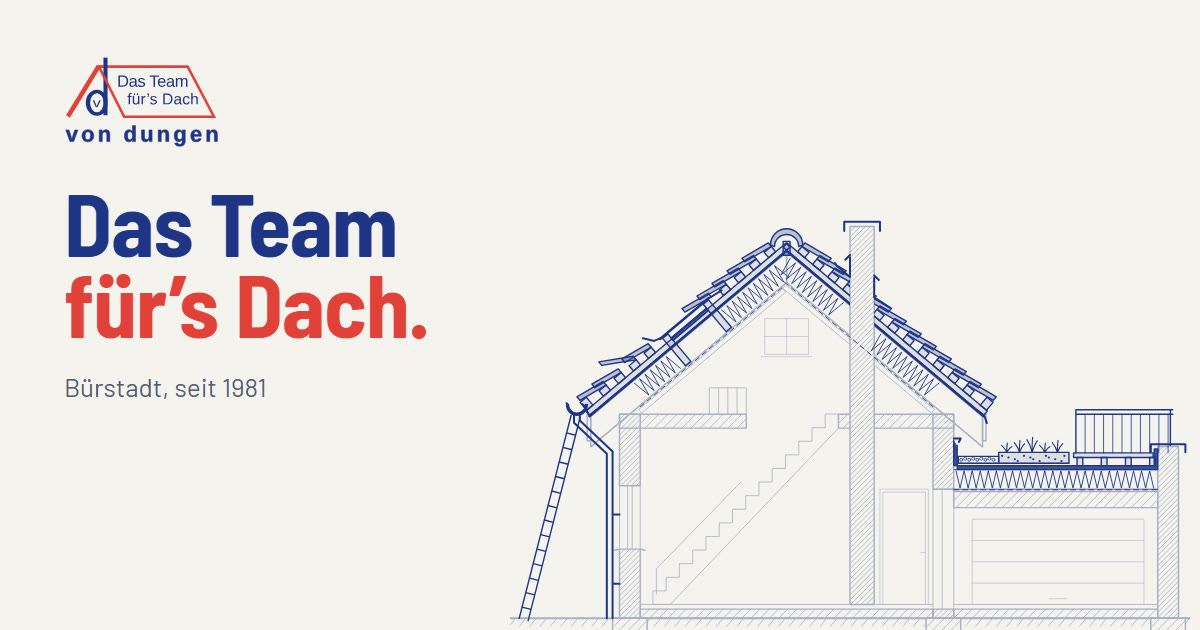
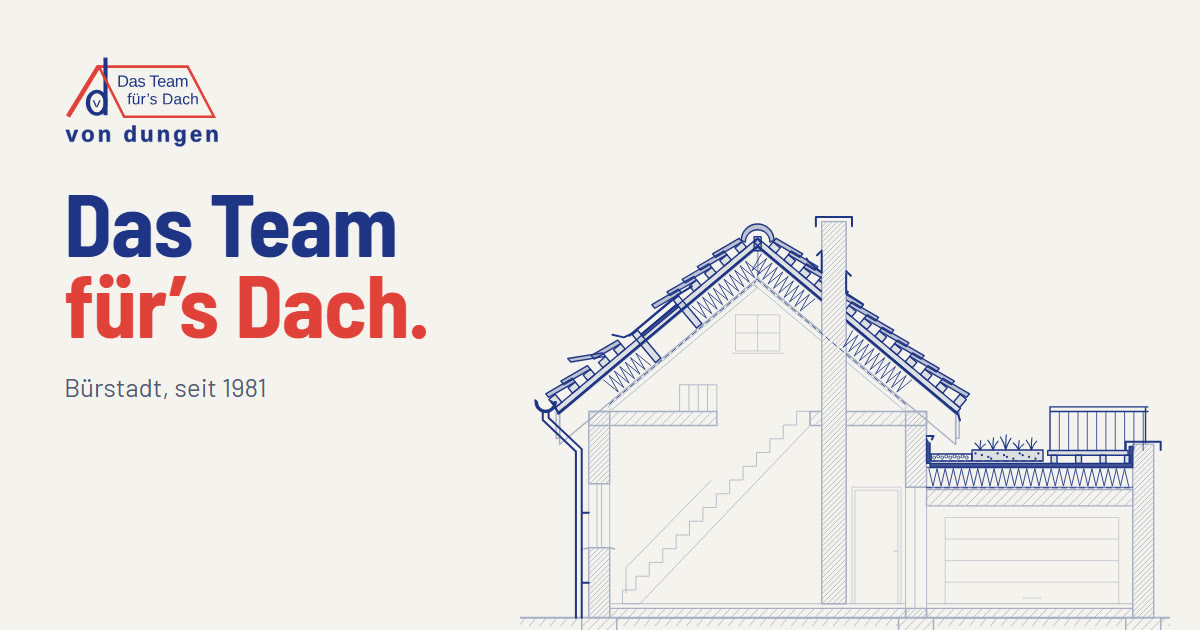
Leiter aus dem Hausschnitt entfernt
Bilal: "was soll die Leiter da ueberhaupt, auch weg".
- Leiter an der linken Rinne entfernt; Wartung zeigt nur noch den
  angehobenen Ziegel, Kartenausschnitt darauf zentriert
- Karriere-Seite hebt statt der Leiter die Eindeckung rot hervor
- Zeichnungsrahmen links enger (Leiter stand ausserhalb des Hauses),
  am Handy ohne Zoom, damit die linke Rinne nicht angeschnitten wird
- Vorschaubild neu

Changed region(s): [[0.4317, 0.3317, 1.0, 1.0], [0.6167, 0.754, 0.6475, 0.7841], [0.5858, 0.7841, 0.6167, 0.8143]]

diff --git a/index.html b/index.html
@@ -18,7 +18,7 @@
 <!-- TODO Bilal: Beim Umzug og:url und og:image auf https://vondungen-dach.de/ umstellen.
      Bis dahin zeigen sie auf die Vorschau, damit WhatsApp beim Teilen ein Bild zeigt. -->
 <meta property="og:url" content="https://bilal-altu.github.io/von-dungen/" />
-<meta property="og:image" content="https://bilal-altu.github.io/von-dungen/assets/img/og-bild.jpg?v=6" />
+<meta property="og:image" content="https://bilal-altu.github.io/von-dungen/assets/img/og-bild.jpg?v=7" />
 <meta name="twitter:card" content="summary_large_image" />
 <meta name="theme-color" content="#f5f3ee" />
 <link rel="icon" href="favicon.svg" type="image/svg+xml" />
@@ -27,7 +27,7 @@
 <link rel="preload" href="assets/fonts/barlow-semi-condensed-700.woff2" as="font" type="font/woff2" crossorigin />
 <link rel="preload" href="assets/fonts/barlow-400.woff2" as="font" type="font/woff2" crossorigin />
 <!-- ?v= nach jeder Änderung an style.css oder main.js in allen vier Seiten hochzählen -->
-<link rel="stylesheet" href="assets/css/style.css?v=2026-09-16-8" />
+<link rel="stylesheet" href="assets/css/style.css?v=2026-09-16-10" />
 </head>
 <body class="hat-leiste">
 
@@ -85,7 +85,7 @@
            Nicht von Hand ändern: einsetzen.js überschreibt alles zwischen den Markern.
            Die Gruppe #schnitt-inhalt wird unten in den Leistungs-Kacheln per <use>
            wiederverwendet, jeweils mit anderem Ausschnitt und anderer roter Schicht. -->
-      <svg class="zeichnung schnitt-held" id="schnitt-held" viewBox="-50 108 1180 754" role="img" aria-labelledby="schnitt-titel">
+      <svg class="zeichnung schnitt-held" id="schnitt-held" viewBox="22 108 1116 754" role="img" aria-labelledby="schnitt-titel">
         <title id="schnitt-titel">Schnitt durch ein Wohnhaus mit Steildach, Dachfenster, Kamin, Dachrinnen und einer Garage mit Gründach und Dachterrasse</title>
         <g id="schnitt-inhalt">
 <!-- SCHNITT:START -->
@@ -118,7 +118,7 @@
 <path class="l f" d="M934,541 h10 v14 h-10 Z"/><path class="l f" d="M976,541 h10 v14 h-10 Z"/><path class="l f" d="M1018,541 h10 v14 h-10 Z"/><path class="l f" d="M1060,541 h10 v14 h-10 Z"/><path class="l f" d="M928,533 H1066 V541 H928 Z"/><path class="l" d="M932,458 H1100 M932,466 H1100 M932,458 V533 M1096,458 V520"/><path class="l l--fein" d="M948,466 V533 M964,466 V533 M980,466 V533 M996,466 V533 M1012,466 V533 M1028,466 V533 M1044,466 V533 M1060,466 V533 M1076,466 V533 M1092,466 V533 "/>
 </g>
 <g class="schicht schicht--wartung" style="--i:9">
-<path class="l f f--ziegel" d="M168.9,371.4 L163.8,365.3 L104,375 L109.2,381.1 Z"/><path class="l" d="M-34,820 L56,468 M-18.5,824 L71.5,472 M-29,800.6 l15.5,4 M-22.6,775.4 l15.5,4 M-16.2,750.2 l15.5,4 M-9.7,725.1 l15.5,4 M-3.3,699.9 l15.5,4 M3.2,674.7 l15.5,4 M9.6,649.5 l15.5,4 M16,624.3 l15.5,4 M22.5,599.1 l15.5,4 M28.9,573.9 l15.5,4 M35.4,548.7 l15.5,4 M41.8,523.5 l15.5,4 M48.2,498.3 l15.5,4"/>
+<path class="l f f--ziegel" d="M168.9,371.4 L163.8,365.3 L104,375 L109.2,381.1 Z"/>
 </g>
 <!-- SCHNITT:ENDE -->
         </g>
@@ -316,7 +316,7 @@
         </div>
       </li>
       <li class="leistung leistung--wartung reveal">
-        <div class="leistung__bild"><svg class="zeichnung" viewBox="-36 366 230 172" aria-hidden="true" preserveAspectRatio="xMidYMid slice"><use href="#schnitt-inhalt"/></svg></div>
+        <div class="leistung__bild"><svg class="zeichnung" viewBox="28 306 224 168" aria-hidden="true" preserveAspectRatio="xMidYMid slice"><use href="#schnitt-inhalt"/></svg></div>
         <div class="leistung__text">
           <h3>Reparatur und Wartung</h3>
           <p>Sturm, Hagel, Verschleiß: Wir beheben Schäden, bevor aus Kleinem Großes wird.</p>
@@ -571,7 +571,7 @@
   </a>
 </nav>
 
-<script src="assets/js/main.js?v=2026-09-16-8"></script>
+<script src="assets/js/main.js?v=2026-09-16-10"></script>
 
 <!-- Bewusst ohne Öffnungszeiten, Geokoordinaten und Bewertungen: liegen nicht bestätigt vor. -->
 <script type="application/ld+json">
@@ -583,7 +583,7 @@
   "description": "Dach- und Spenglerarbeiten in Bürstadt: Steildach, Flachdach, Dachdämmung, Dachflächenfenster, Dachbegrünung, Balkon und Terrasse, Reparatur und Wartung.",
   "url": "https://vondungen-dach.de/",
   "logo": "https://bilal-altu.github.io/von-dungen/assets/img/logo-von-dungen.svg",
-  "image": "https://bilal-altu.github.io/von-dungen/assets/img/og-bild.jpg?v=6",
+  "image": "https://bilal-altu.github.io/von-dungen/assets/img/og-bild.jpg?v=7",
   "telephone": "+49 6206 6437",
   "email": "vondungen@t-online.de",
   "foundingDate": "1981",

diff --git a/karriere.html b/karriere.html
@@ -11,12 +11,12 @@
 <meta property="og:locale" content="de_DE" />
 <meta property="og:title" content="Arbeiten bei von Dungen, Bürstadt" />
 <meta property="og:url" content="https://bilal-altu.github.io/von-dungen/karriere.html" />
-<meta property="og:image" content="https://bilal-altu.github.io/von-dungen/assets/img/og-bild.jpg?v=6" />
+<meta property="og:image" content="https://bilal-altu.github.io/von-dungen/assets/img/og-bild.jpg?v=7" />
 <meta name="theme-color" content="#f5f3ee" />
 <link rel="icon" href="favicon.svg" type="image/svg+xml" />
 <link rel="preload" href="assets/fonts/barlow-semi-condensed-700.woff2" as="font" type="font/woff2" crossorigin />
 <link rel="preload" href="assets/fonts/barlow-400.woff2" as="font" type="font/woff2" crossorigin />
-<link rel="stylesheet" href="assets/css/style.css?v=2026-09-16-8" />
+<link rel="stylesheet" href="assets/css/style.css?v=2026-09-16-10" />
 </head>
 <body class="hat-leiste">
 
@@ -57,9 +57,9 @@
         <a class="btn btn--blau" href="#bewerben">Kurzbewerbung schreiben</a>
       </div>
     </div>
-    <!-- Derselbe Hausschnitt wie auf der Startseite, hier mit der Leiter in Rot -->
+    <!-- Derselbe Hausschnitt wie auf der Startseite, hier mit der Eindeckung in Rot -->
     <div class="karriere-held__zeichnung">
-      <svg class="zeichnung" viewBox="-60 110 1200 752" role="img" aria-label="Schnitt durch ein Wohnhaus mit angelehnter Leiter an der Dachrinne">
+      <svg class="zeichnung" viewBox="12 110 1136 752" role="img" aria-label="Schnitt durch ein Wohnhaus mit Steildach, Kamin und Garage">
         <g id="schnitt-inhalt">
 <!-- SCHNITT:START -->
 <clipPath id="vd-ohne-kamin"><path clip-rule="evenodd" d="M-200,-200 H1400 V1100 H-200 Z M540,-200 H582 V490 H540 Z"/></clipPath>
@@ -91,7 +91,7 @@
 <path class="l f" d="M934,541 h10 v14 h-10 Z"/><path class="l f" d="M976,541 h10 v14 h-10 Z"/><path class="l f" d="M1018,541 h10 v14 h-10 Z"/><path class="l f" d="M1060,541 h10 v14 h-10 Z"/><path class="l f" d="M928,533 H1066 V541 H928 Z"/><path class="l" d="M932,458 H1100 M932,466 H1100 M932,458 V533 M1096,458 V520"/><path class="l l--fein" d="M948,466 V533 M964,466 V533 M980,466 V533 M996,466 V533 M1012,466 V533 M1028,466 V533 M1044,466 V533 M1060,466 V533 M1076,466 V533 M1092,466 V533 "/>
 </g>
 <g class="schicht schicht--wartung" style="--i:9">
-<path class="l f f--ziegel" d="M168.9,371.4 L163.8,365.3 L104,375 L109.2,381.1 Z"/><path class="l" d="M-34,820 L56,468 M-18.5,824 L71.5,472 M-29,800.6 l15.5,4 M-22.6,775.4 l15.5,4 M-16.2,750.2 l15.5,4 M-9.7,725.1 l15.5,4 M-3.3,699.9 l15.5,4 M3.2,674.7 l15.5,4 M9.6,649.5 l15.5,4 M16,624.3 l15.5,4 M22.5,599.1 l15.5,4 M28.9,573.9 l15.5,4 M35.4,548.7 l15.5,4 M41.8,523.5 l15.5,4 M48.2,498.3 l15.5,4"/>
+<path class="l f f--ziegel" d="M168.9,371.4 L163.8,365.3 L104,375 L109.2,381.1 Z"/>
 </g>
 <!-- SCHNITT:ENDE -->
         </g>
@@ -233,6 +233,6 @@
   </a>
 </nav>
 
-<script src="assets/js/main.js?v=2026-09-16-8"></script>
+<script src="assets/js/main.js?v=2026-09-16-10"></script>
 </body>
 </html>

diff --git a/assets/css/style.css b/assets/css/style.css
@@ -515,7 +515,7 @@ address { font-style: normal; }
 .karriere-held h1 { font-size: clamp(2.8rem, 1.6rem + 4.4vw, 5.2rem); margin-top: 1rem; line-height: .97; }
 .karriere-held p { margin-top: 1.3rem; font-size: clamp(1.1rem, 1rem + .35vw, 1.3rem); color: var(--grau); max-width: 38rem; }
 .karriere-held .held__knoepfe { margin-top: 1.8rem; }
-.karriere-held__zeichnung { --schicht-standard: #b3bad0; --farbe-bestand: #d2d7e4; --farbe-wartung: var(--rot); }
+.karriere-held__zeichnung { --schicht-standard: #b3bad0; --farbe-bestand: #d2d7e4; --farbe-ziegel: var(--rot); }
 @media (max-width: 900px) { .karriere-held__in { grid-template-columns: 1fr; } }
 
 .aufgaben { display: grid; grid-template-columns: repeat(3, minmax(0, 1fr)); gap: 1rem; list-style: none; margin: 0; padding: 0; }
@@ -603,7 +603,7 @@ address { font-style: normal; }
   /* Preis und Anfrage stehen am Handy schon in der Anrufleiste unten */
   .held__knoepfe { display: none; }
   .held__zeichnung { margin: 1.4rem calc(var(--rand) * -1) 0; overflow: hidden; }
-  .held__zeichnung .schnitt-held { width: 124%; max-width: none; margin-left: -9%; }
+  .held__zeichnung .schnitt-held { width: 100%; }
   .held__fuss { display: none; }
   .held__bildtext { display: none; }
 

diff --git a/datenschutz.html b/datenschutz.html
@@ -11,7 +11,7 @@
 <link rel="icon" href="favicon.svg" type="image/svg+xml" />
 <link rel="preload" href="assets/fonts/barlow-semi-condensed-700.woff2" as="font" type="font/woff2" crossorigin />
 <link rel="preload" href="assets/fonts/barlow-400.woff2" as="font" type="font/woff2" crossorigin />
-<link rel="stylesheet" href="assets/css/style.css?v=2026-09-16-8" />
+<link rel="stylesheet" href="assets/css/style.css?v=2026-09-16-10" />
 </head>
 <body>
 
@@ -199,6 +199,6 @@
   </div>
 </footer>
 
-<script src="assets/js/main.js?v=2026-09-16-8"></script>
+<script src="assets/js/main.js?v=2026-09-16-10"></script>
 </body>
 </html>

diff --git a/impressum.html b/impressum.html
@@ -11,7 +11,7 @@
 <link rel="icon" href="favicon.svg" type="image/svg+xml" />
 <link rel="preload" href="assets/fonts/barlow-semi-condensed-700.woff2" as="font" type="font/woff2" crossorigin />
 <link rel="preload" href="assets/fonts/barlow-400.woff2" as="font" type="font/woff2" crossorigin />
-<link rel="stylesheet" href="assets/css/style.css?v=2026-09-16-8" />
+<link rel="stylesheet" href="assets/css/style.css?v=2026-09-16-10" />
 </head>
 <body>
 
@@ -177,6 +177,6 @@
   </div>
 </footer>
 
-<script src="assets/js/main.js?v=2026-09-16-8"></script>
+<script src="assets/js/main.js?v=2026-09-16-10"></script>
 </body>
 </html>
